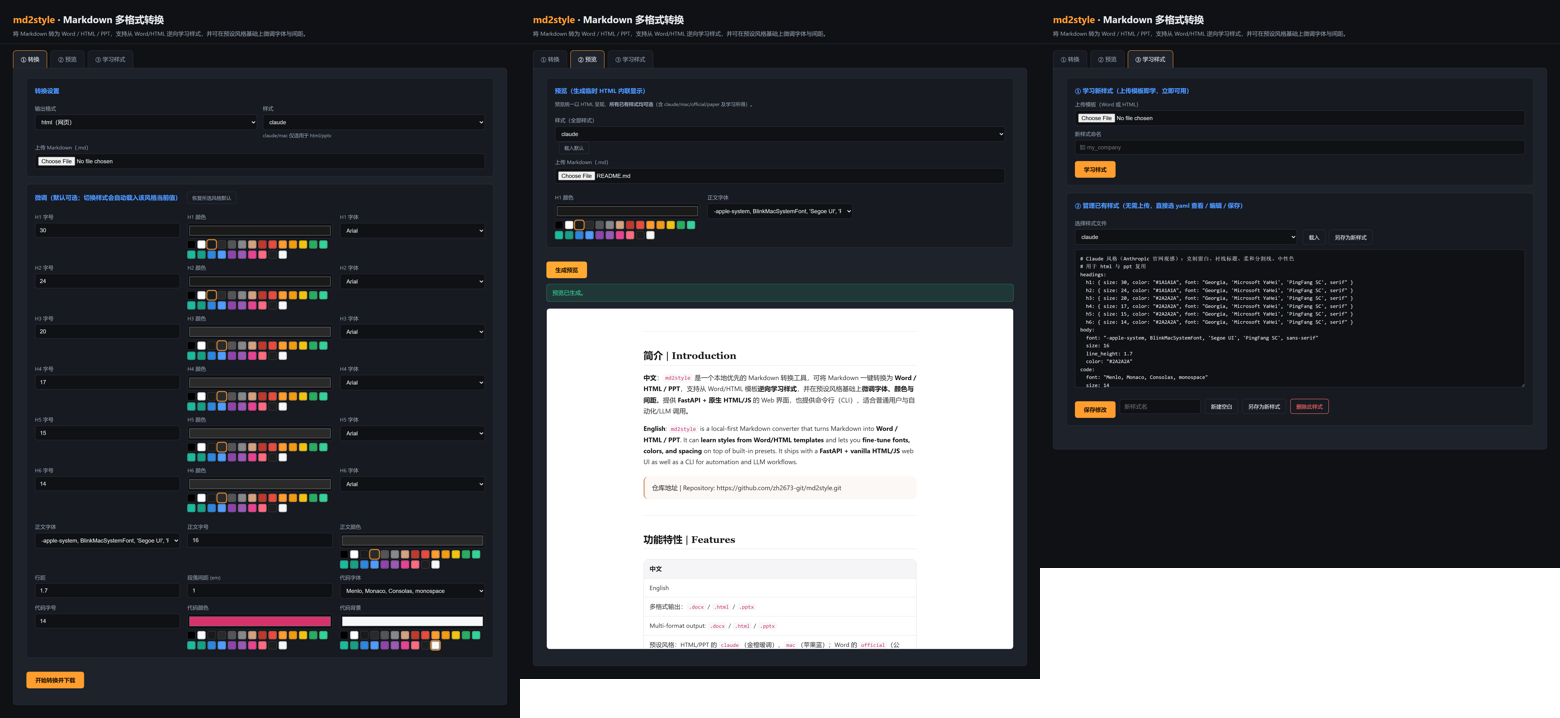
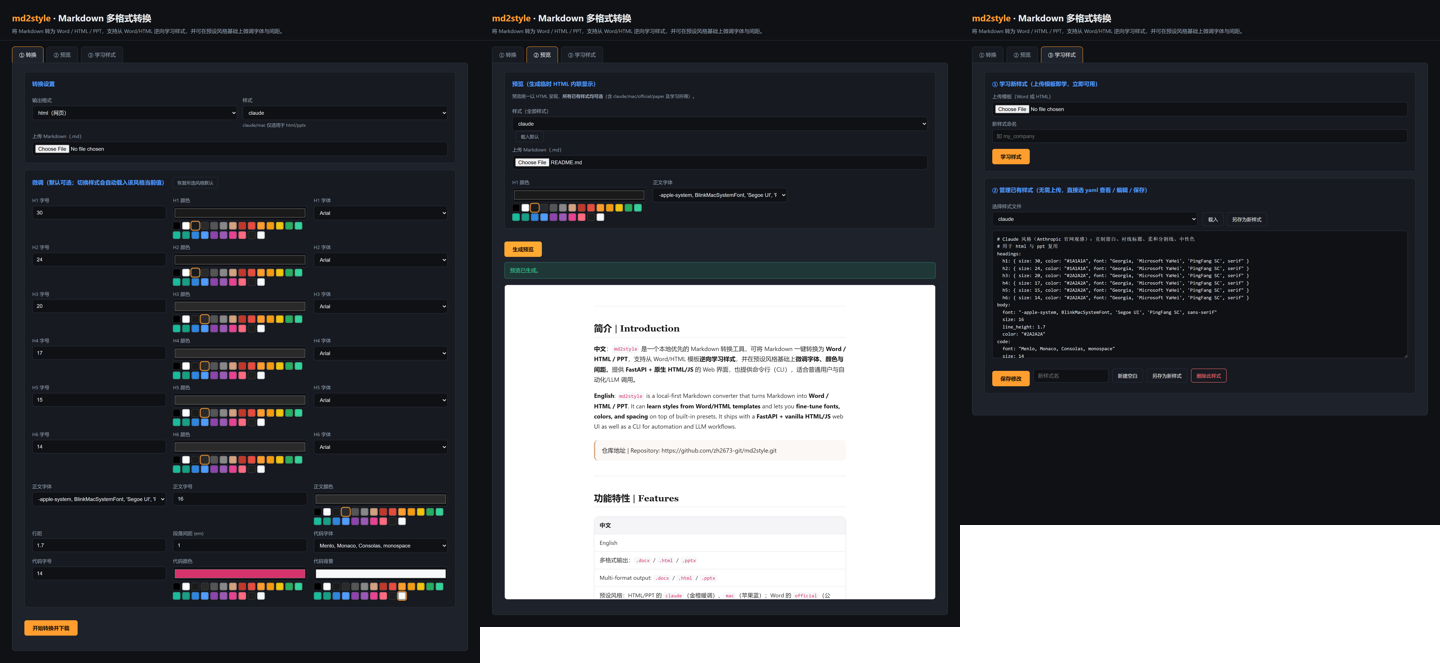
docs: 双语改为上下排版，截图拼图统一高度

diff --git a/README.md b/README.md
@@ -12,9 +12,9 @@
 
 ## 简介 | Introduction
 
-**中文**：`md2style` 是一个本地优先的 Markdown 转换工具，可将 Markdown 一键转换为 **Word / HTML / PPT**，支持从 Word/HTML 模板**逆向学习样式**，并在预设风格基础上**微调字体、颜色与间距**。提供 **FastAPI + 原生 HTML/JS** 的 Web 界面，也提供命令行（CLI），适合普通用户与自动化/LLM 调用。
+`md2style` 是一个本地优先的 Markdown 转换工具，可将 Markdown 一键转换为 **Word / HTML / PPT**，支持从 Word/HTML 模板**逆向学习样式**，并在预设风格基础上**微调字体、颜色与间距**。提供 **FastAPI + 原生 HTML/JS** 的 Web 界面，也提供命令行（CLI），适合普通用户与自动化/LLM 调用。
 
-**English**: `md2style` is a local-first Markdown converter that turns Markdown into **Word / HTML / PPT**. It can **learn styles from Word/HTML templates** and lets you **fine-tune fonts, colors, and spacing** on top of built-in presets. It ships with a **FastAPI + vanilla HTML/JS** web UI as well as a CLI for automation and LLM workflows.
+`md2style` is a local-first Markdown converter that turns Markdown into **Word / HTML / PPT**. It can **learn styles from Word/HTML templates** and lets you **fine-tune fonts, colors, and spacing** on top of built-in presets. It ships with a **FastAPI + vanilla HTML/JS** web UI as well as a CLI for automation and LLM workflows.
 
 > 仓库地址 | Repository: https://github.com/zh2673-git/md2style.git
 
@@ -22,38 +22,61 @@
 
 ## 功能特性 | Features
 
-| 中文 | English |
-|---|---|
-| 多格式输出：`.docx` / `.html` / `.pptx` | Multi-format output: `.docx` / `.html` / `.pptx` |
-| 预设风格：HTML/PPT 的 `claude`（金橙暖调）、`mac`（苹果蓝）；Word 的 `official`（公文）、`paper`（论文） | Built-in presets: `claude` (warm gold/orange) / `mac` (Apple blue) for HTML/PPT; `official` / `paper` for Word |
-| 从 Word/HTML **学习新样式**，生成 YAML 预设 | **Learn new styles** from Word/HTML templates and save as YAML presets |
-| 在预设风格上微调：H1–H6 字号/颜色/字体、正文字体/字号/颜色/行距/段间距、代码块配色 | Fine-tune on presets: H1–H6 size/color/font, body font/size/color/line-height/spacing, code block colors |
-| Web 界面三区 Tab（转换 / 预览 / 学习管理），互不阻塞 | Web UI with three tabs (Convert / Preview / Learn & Manage) that don't block each other |
-| CLI 子命令参数经白名单校验，防止未知参数扩散 | CLI arguments validated against an allow-list to block hallucinated parameters |
+多格式输出：`.docx` / `.html` / `.pptx`。
+
+Multi-format output: `.docx` / `.html` / `.pptx`.
+
+预设风格：HTML/PPT 的 `claude`（金橙暖调）、`mac`（苹果蓝）；Word 的 `official`（公文）、`paper`（论文）。
+
+Built-in presets: `claude` (warm gold/orange) / `mac` (Apple blue) for HTML/PPT; `official` / `paper` for Word.
+
+从 Word/HTML **学习新样式**，生成 YAML 预设并立即可用。
+
+**Learn new styles** from Word/HTML templates and save as YAML presets that are usable immediately.
+
+在预设风格上微调：H1–H6 字号/颜色/字体、正文字体/字号/颜色/行距/段间距、代码块配色。
+
+Fine-tune on presets: H1–H6 size/color/font, body font/size/color/line-height/spacing, code block colors.
+
+Web 界面三区 Tab（转换 / 预览 / 学习管理），互不阻塞。
+
+Web UI with three tabs (Convert / Preview / Learn & Manage) that don't block each other.
+
+CLI 子命令参数经白名单校验，防止未知参数扩散。
+
+CLI arguments are validated against an allow-list to block hallucinated parameters.
 
 ---
 
 ## 界面截图 | Screenshots
 
-> 以下截图来自真实运行的 Web 界面（`http://127.0.0.1:8080`）；预览样本即本 README 文件本身。
-> Screenshots are captured from the running local web interface; the preview sample is this very README file.
+以下截图来自真实运行的 Web 界面（`http://127.0.0.1:8080`）；预览样本即本 README 文件本身。
+
+Screenshots are captured from the running local web interface; the preview sample is this very README file.
 
 ### 总览 | Overview
 
-| 转换（微调） · 预览（本 README） · 学习/管理 | Convert (tune) · Preview (this README) · Learn & Manage |
-|---|---|
-| ![overview](docs/screenshots/web-overview.png) |
+左：转换（微调） · 中：预览（本 README） · 右：学习 / 管理样式。
 
-### 预览效果（本仓库 README 渲染后的 HTML）
-| Preview of this README rendered as HTML |
-|---|---|
-| ![preview](docs/screenshots/web-preview.png) |
+Left: Convert (tune) · Middle: Preview (this README) · Right: Learn & Manage styles.
+
+![overview](docs/screenshots/web-overview.png)
+
+### 预览效果 | Preview
+
+本仓库 README 渲染后的 HTML（claude 风格）。
+
+This README rendered as HTML (claude style).
+
+![preview](docs/screenshots/web-preview.png)
 
 ---
 
 ## 安装 | Installation
 
-需要 Python 3.10+。/ Requires Python 3.10+.
+需要 Python 3.10+。
+
+Requires Python 3.10+.
 
 ```bash
 cd md2style
@@ -75,9 +98,13 @@ pip install python-docx python-pptx Jinja2 Pygments PyYAML markdown-it-py fastap
 python -m md2style.interfaces.web
 ```
 
-浏览器打开 | Open in browser: http://127.0.0.1:8080
+浏览器打开：`http://127.0.0.1:8080`
 
-界面顶部有三个 Tab：/ The top has three tabs:
+Open in browser: `http://127.0.0.1:8080`
+
+界面顶部有三个 Tab：
+
+The top has three tabs:
 
 1. **转换 | Convert**：上传 `.md` → 选输出格式 → 选样式 → 微调字段默认显示当前风格取值 → 转换下载
    - 选 `docx` 时样式下拉仅显示 `official` / `paper`；`claude` / `mac` 仅用于 `html` / `pptx`
@@ -89,13 +116,17 @@ python -m md2style.interfaces.web
 4. **管理已有样式 | Manage**：载入任意 `.yaml` 查看/编辑/保存；新建空白样式；另存为新样式；删除样式（二次确认）
    - Load any `.yaml` to edit/save; create a blank style; save-as; delete (confirmation required)
 
-一键启动脚本：/ One-click startup:
+一键启动脚本：
+
+One-click startup:
 
 ```bash
 python start_web.py
 ```
 
-API 文档：/ API docs: http://127.0.0.1:8080/docs
+API 文档：`http://127.0.0.1:8080/docs`
+
+API docs: `http://127.0.0.1:8080/docs`
 
 ### B. 命令行 | CLI
 
@@ -122,25 +153,27 @@ python -m md2style.cli learn -t my_template.docx -n my_company
 
 ## 微调参数一览 | Fine-tune Parameters (CLI)
 
-在所选风格基础上覆盖，留空则使用默认。/ Override selected style values; omit to keep defaults.
+在所选风格基础上覆盖，留空则使用默认。
 
-| 参数 / Parameter | 说明 / Description |
-|---|---|
-| `--h1-size` … `--h6-size` | H1–H6 字号 / H1–H6 font size |
-| `--h1-color` … `--h6-color` | H1–H6 颜色 / H1–H6 color |
-| `--h1-font` … `--h6-font` | H1–H6 字体 / H1–H6 font |
-| `--body-font` | 正文字体 / Body font |
-| `--body-size` | 正文字号 / Body font size |
-| `--body-color` | 正文颜色 / Body color |
-| `--line-height` | 正文行距 / Body line height |
-| `--para-spacing` | 段落间距（em）/ Paragraph spacing (em) |
-| `--code-font` | 代码字体 / Code font |
-| `--code-size` | 代码字号 / Code font size |
-| `--code-color` | 代码颜色 / Code color |
-| `--code-bg` | 代码背景 / Code background |
-| `--template` | docx 模板（dotx）名 / docx template (dotx) name |
+Override selected style values; omit to keep defaults.
 
-Web 界面中上述参数对应为：颜色字段为色板、字体字段为下拉、数字字段为数字框，切换样式自动回填当前风格默认值。/ In the web UI: colors are swatches, fonts are dropdowns, sizes are number inputs, and changing the style auto-fills the preset values.
+- `--h1-size` … `--h6-size`：H1–H6 字号 / H1–H6 font size
+- `--h1-color` … `--h6-color`：H1–H6 颜色 / H1–H6 color
+- `--h1-font` … `--h6-font`：H1–H6 字体 / H1–H6 font
+- `--body-font`：正文字体 / Body font
+- `--body-size`：正文字号 / Body font size
+- `--body-color`：正文颜色 / Body color
+- `--line-height`：正文行距 / Body line height
+- `--para-spacing`：段落间距（em）/ Paragraph spacing (em)
+- `--code-font`：代码字体 / Code font
+- `--code-size`：代码字号 / Code font size
+- `--code-color`：代码颜色 / Code color
+- `--code-bg`：代码背景 / Code background
+- `--template`：docx 模板（dotx）名 / docx template (dotx) name
+
+Web 界面中上述参数对应为：颜色字段为色板、字体字段为下拉、数字字段为数字框，切换样式自动回填当前风格默认值。
+
+In the web UI: colors are swatches, fonts are dropdowns, sizes are number inputs, and changing the style auto-fills the preset values.
 
 ---
 
@@ -151,7 +184,9 @@ DEFAULT（硬编码兜底） < YAML（预设/学习所得） < CLI/Web 微调参
 DEFAULT (hard-coded fallback) < YAML (presets / learned) < CLI/Web fine-tune overrides
 ```
 
-合并后经 `StyleEngine.validate` 校验（颜色格式、字号范围、字体存在性），非法参数直接报错，不会生成脏文件。/ After merging, `StyleEngine.validate` checks color format, size ranges, and font availability; invalid values raise errors instead of producing broken files.
+合并后经 `StyleEngine.validate` 校验（颜色格式、字号范围、字体存在性），非法参数直接报错，不会生成脏文件。
+
+After merging, `StyleEngine.validate` checks color format, size ranges, and font availability; invalid values raise errors instead of producing broken files.
 
 ---
 
@@ -187,9 +222,14 @@ pytest
 
 ## 设计原则 | Design Principles
 
-- **白名单机制 / Allow-list only**：CLI/Web 仅接受已知参数，未知参数一律拦截，杜绝 LLM 幻觉扩散。/ Only known parameters are accepted; unknown parameters are rejected to prevent LLM hallucinations from spreading downstream.
-- **界面无业务规则 / UI holds no business rules**：Web/CLI 只做参数采集与展示，所有规则在 Orchestrator / Engines / Renderers 中统一处理。/ Web/CLI only collect and display parameters; all rules live in the orchestrator/engines/renderers.
-- **可学习 / Learnable**：用户看到好模板即可“拖入即学”，沉淀为可复用的 YAML 预设。/ Users can drop in any nice template to learn its style and turn it into a reusable YAML preset.
+- **白名单机制 / Allow-list only**：CLI/Web 仅接受已知参数，未知参数一律拦截，杜绝 LLM 幻觉扩散。
+- Only known parameters are accepted; unknown parameters are rejected to prevent LLM hallucinations from spreading downstream.
+
+- **界面无业务规则 / UI holds no business rules**：Web/CLI 只做参数采集与展示，所有规则在 Orchestrator / Engines / Renderers 中统一处理。
+- Web/CLI only collect and display parameters; all rules live in the orchestrator/engines/renderers.
+
+- **可学习 / Learnable**：用户看到好模板即可“拖入即学”，沉淀为可复用的 YAML 预设。
+- Users can drop in any nice template to learn its style and turn it into a reusable YAML preset.
 
 ---
 
